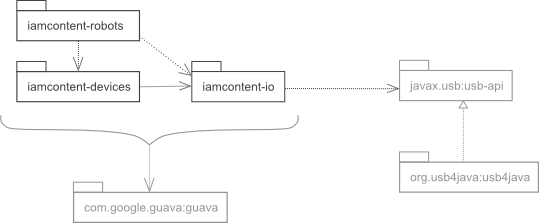
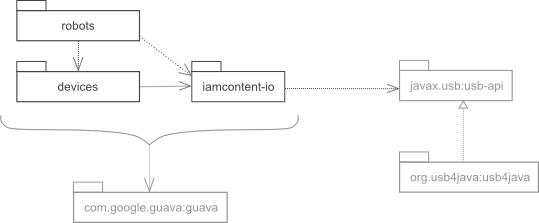
Docs.

Changed region(s): [[0.0297, 0.0807, 0.2375, 0.1345], [0.0297, 0.3767, 0.2672, 0.4305]]

diff --git a/public-java/README.md b/public-java/README.md
@@ -6,7 +6,26 @@ IAmContent Public Libraries.
 Copyright (C) 2015 Greg Elderfield
 
 @author Greg Elderfield, support@jarchitect.co.uk
- 
+
+This software comprises the following packages:
+
+```
+public-java
+  |-- iamcontent-core.jar  - a few utility classes and functions
+  |-- iamcontent-io.jar    - I/O utilities and a usable facade over the javax.usb API.
+  |-- devices
+  |     |-- iamcontent-servo-support.jar              -  Supports control of servos
+  |     |-- iamcontent-pololu-servo-controllers.jar   -  Servo control using Pololu Maestro cards
+  |     |-- iamcontent-owi-motor-controllers.jar      -  Motor control using the Owi-535 Motor Controller
+  |-- robots
+        |-- iamcontent-robotic-arm-edge.jar           -  Control of the 'USB Robotic Arm Edge'
+
+```
+
+![Package Diagram](src/site/uml/public-java-maven-projects.png)
+
+---
+
 This program is free software; you can redistribute it and/or modify it under the terms of the GNU General Public License as published by the Free Software Foundation; either version 2 of the License, or (at your option) any later version.
 
 This program is distributed in the hope that it will be useful, but WITHOUT ANY WARRANTY; without even the implied warranty of MERCHANTABILITY or FITNESS FOR A PARTICULAR PURPOSE. See the GNU General Public License for more details.
